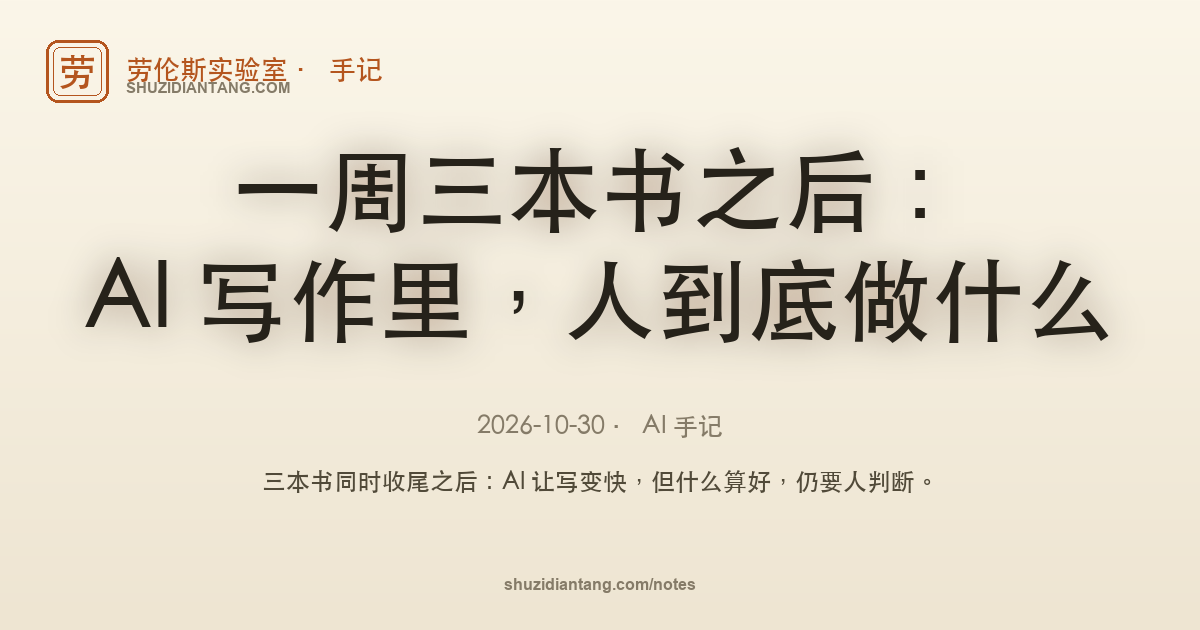
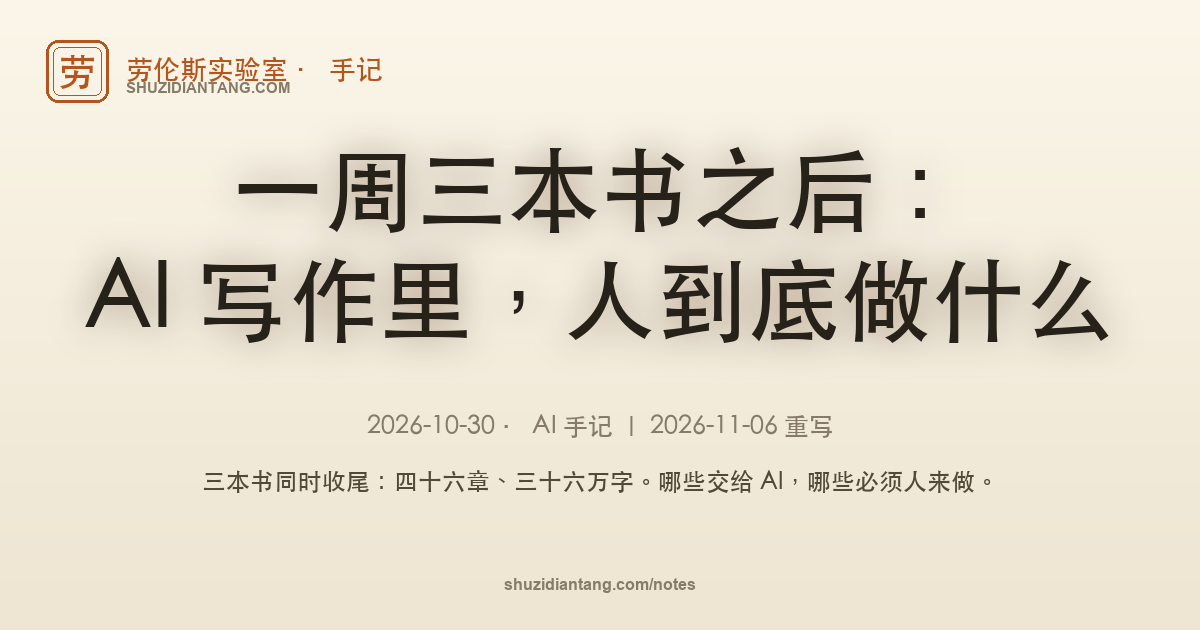
重写《一周三本书之后》：字数与章数口径、压缩三分之一、补 AI 分工
- 开头去掉页数，改为三本书的章数与字数（合计 46 章、36 万字）
- 正文 1,909 → 1,222 汉字，压缩约 36%，删三连列举与对称排比
- 新增按 AI 能力分工：Kimi 铺底稿、Codex/Astra 配图、DeepSeek 收格式与工程
- 新增材料按方向整合、小处放过大处不放过两条分寸
- 修正 meta 描述（此前误用掼蛋手记文案），同步 OG 分享图与列表摘要

Changed region(s): [[0.1542, 0.7238, 0.8325, 0.7841], [0.3083, 0.6333, 0.7092, 0.6937]]

diff --git a/notes/2026-10-30-ai-writing-ebook-v3.html b/notes/2026-10-30-ai-writing-ebook-v3.html
@@ -4,10 +4,10 @@
 <meta charset="UTF-8">
 <meta name="viewport" content="width=device-width, initial-scale=1.0">
 <title>一周三本书之后：AI 写作里，人到底做什么 · 劳伦斯实验室</title>
-<meta name="description" content="70 台匿名设备、471 局开局、420 局完成之后的产品经理手记：AI 不是阿拉丁神灯，复盘能力、AI 棋力上限与 vibecoding 里人的位置。">
+<meta name="description" content="三本书同时收尾：四十六章、三十六万字。哪些交给 AI，哪些必须人来做。">
 <link rel="canonical" href="https://shuzidiantang.com/notes/2026-10-30-ai-writing-ebook-v3.html">
 <meta property="og:title" content="一周三本书之后：AI 写作里，人到底做什么">
-<meta property="og:description" content="70 台匿名设备、471 局开局、420 局完成之后的产品经理手记：AI 不是阿拉丁神灯，复盘能力、AI 棋力上限与 vibecoding 里人的位置。">
+<meta property="og:description" content="三本书同时收尾：四十六章、三十六万字。哪些交给 AI，哪些必须人来做。">
 <meta property="og:type" content="article">
 <meta property="og:url" content="https://shuzidiantang.com/notes/2026-10-30-ai-writing-ebook-v3.html">
 <meta property="og:image" content="https://shuzidiantang.com/notes/og/2026-10-30-ai-writing-ebook-v3.png">
@@ -102,41 +102,26 @@
 <main>
   <article>
     <h1>一周三本书之后：AI 写作里，人到底做什么</h1>
-    <p class="meta"><time datetime="2026-10-30">2026-10-30</time> · 约 1,909 字 · 分类：AI 手记</p>
+    <p class="meta"><time datetime="2026-10-30">2026-10-30</time> · 约 1,222 字 · 分类：AI 手记 ｜ 2026-11-06 重写</p>
     <div class="article-copy">
-<p>十月最后一周，三本书几乎同时推到终稿：奉系—东北军 273 页，日本与俄国、苏联 204 页，俄罗斯远东 152 页。加起来 629 页。</p>
-<p>回头看，AI 并没有让写书这件事变轻松。它让“写”变快了，但“写什么、写成什么样、什么算写完”，仍然要人先想清楚。</p>
-<p>以前写一本书，最花时间的是查材料、搭结构、改句子。现在前两件快了很多，省下来的时间几乎都花在判断上：这个材料要不要，这一章删不删，这句话站不站得住。容易的是起草，难的是负责。</p>
+<p>十月最后一周，三本书几乎同时推到终稿：奉系—东北军 18 章、23.5 万字；日本与俄国、苏联那本 18 章、6.7 万字；俄罗斯远东 10 章、6.1 万字。合起来 46 章、36 万字。</p>
+<p>三本书都不是一键生成的。AI 让“写”变快了，省下的时间几乎都花在判断上：这个材料要不要，这句话站不站得住。这一周最大的体会是：得按 AI 各自的长处分活，别指望一个模型包打天下。</p>
 <h2>一、先立规矩</h2>
-<p>三本书同时推进，最怕每一章长成不同的腔。所以开写前，我先定了三件事。</p>
-<p>读者是谁，什么形态。奉系那本从一开始就定成“可读通史”，不往学术专著上靠。这个决定一落，取舍就清楚了：不追求专著的引注密度，但不许堆材料；允许写作者发问，但文责自负。</p>
-<p>一句话命题是什么。奉系的命题是“两次未完成转型”。审读时发现，这句话全书只出现六次，结论部分一次没提——命题没有闭环，三十章就容易写成三十篇专题。命题得贯穿全书，不能停在标题上；它要能一句话复述，也能一句话反驳；每一章都得回答“我为它添了哪块证据”。</p>
-<p>体例怎么统一。纪年、标题、引注、术语、图表，各按什么来，先写成几条硬规矩。体例看着琐碎，实际是多个人、多个模型合稿的接口。</p>
-<p>这三件事，AI 都不能替你决定。它可以给你十个方案，但选哪个、为什么选，得人来签字。后来发现，定规矩的那半天，比后面改一个月都值。</p>
-<p>规矩立好，AI 才动手。没有这几条，统稿时每一章都要重新谈一遍口径，改到最后只剩疲惫。顺序反了，几个模型各按各的默认动作写，合稿时一定打架。读者、命题、体例，后来都成了我判断稿子的尺子。</p>
-<h2>二、AI 能写什么</h2>
-<p>不要指望 AI 一次写整本。三本书都是先做素材长编，再定编章骨架，再给每章一张写作卡，最后才落段落。写作卡不是形式，它逼着人先回答“这一章到底干什么”；写不出卡，往往说明还没想清楚，不如先别让 AI 动笔。</p>
-<p>奉系三十章、三十四万字，是八个 AI 分头写、一个人统稿，不是一键生成。协作也不是把活丢给八个模型就完了；中间要有人拆活、看进度、把跑偏的章节拉回来。教训也很直接：台账只写了“每章一万四到两万字”，没有硬约束，结果郭松龄三章只有标准的一半，没人返工。配额不写死，“完成”就是一句空话。AI 像一组能干但需要监工的助手：活干得快，方向得有人看。</p>
-<p>AI 的初稿常见三种默认动作：先找材料，先搭结构，先找问题。先找材料的容易资料串讲，先搭结构的容易论证空转，先找问题的容易写给自己看。知道它偏哪一种，就知道该补哪一刀。</p>
-<p>拿到一篇 AI 中文稿，我常问五件事：有没有一句能被复述的判断？有没有一个能被核查的事实？有没有一个真实的反方？删掉形容词之后还剩什么？结尾是不是在总结？最后一条最灵——如果结尾还在总结，多半说明前面没说完。</p>
-<p>这五个问题，没有一条能靠文采混过去。AI 很擅长把话说得顺，但顺不等于对；写着写着会发现，它最会写的是“正确但没用”的段落。把形容词删掉，剩下的才是货。</p>
-<h2>三、改稿才是人的活</h2>
-<p>去 AI 腔，不能只靠删几个词。</p>
-<p>三本书里最常见的是对称否定：不能 A，也不能 B；不是 A，而是 B；不必……也不必……。这种句子听起来周全，实际常常是在替自己留后路。还有一种更隐蔽：禁用词清零了，句法没变，“不能把”“不能只”“无法解释”又顶上来。</p>
-<p>我的做法是先数，再改，最后判断。数，是把对称否定、套话、句长、重复段扫一遍；改，是每一处落回句子；判断只能人做：这一章有没有判断？证据在论证链上有没有位置？反方是不是稻草人？改完要回读，别为了避开禁用词改出病句。</p>
-<p>也有改过头的时候。另一本稿子为了把禁用词清零，把限定和反证一起删了；数字干净了，判断也没了。后来我给自己定了一条：删掉这句话，信息有没有减少？改稿最费时间的不是找错字，是判断哪句话值得留。</p>
-<p>事实核查也一样：每个数字都要有口径，谁统计、什么时点、什么范围；每条结论只能标“确认错误、存疑待核、无法核实”三种状态；图、文、表必须同版本。先定文字，再配图。</p>
-<h2>四、书是工程，也是判断</h2>
-<p>出书第一步先定形态，排版还在后面。研究分享版、自出版电子书、正式出版，三种做法完全不同。三本书都没走正式出版，不是做不到，是先定了给谁看。</p>
-<p>“书感”来自封面、目录、图注，不是字体。目录要能点、页码要对；图注要写清来源。这些事读者未必说得出哪里好，但一旦出错，第一眼就露怯。封面是第一眼，目录是路径，图注是信任。</p>
-<p>形态定错，后面的工艺也白费：给同行看的研究分享版，不需要书号；要公开卖的书，不能省掉授权和审校。书最终是给人翻的，文件检查器只是工具。工程上最值钱的经验只有一句：内容只留一个真源，PDF、EPUB、HTML 从同一份内容生成。</p>
-<p>质检分三层：能打开，内容对，手机上能读。还有一条，不信自评：声称的检查要复跑，声称的链接数要复算。</p>
-<p>这一周吓人的错误，没有一个是文笔问题：配图按旧正文排版，新文字没进去；单位换算错，整张表的数字变成 0；封面卡片图 404；压缩包打开是乱码。它们都不在正文里，读者却会在翻开书的第一分钟撞上。共同点是肉眼看不出来，只能靠脚本和抽检兜底。</p>
-<h2>五、最后</h2>
-<p>AI 放大的是产量，不是判断力。</p>
-<p>好稿子的敌人，说到底是对称、空泛、不落地、不负责，而不只是“AI 味”三个字。出书是工程，AI 能完成大部分生成和修订，剩下页码、断链、单位、授权，决定这本书能不能真的发出去。</p>
-<p>三本书能同时收尾，没有哪一步靠灵光；靠的是这些重复、枯燥、可检查的动作。</p>
-<p>做完这三本，我最大的变化，是不再问 AI 能不能写，而是先问自己：这本书到底要解决什么。这个问题想不清楚，AI 写得再快，也只是把错误放大。写书这件事，最后拼的还是人愿不愿意为判断负责；人得为最后一眼负责。</p>
+<p>三本书同时推进，最怕每一章长成不同的腔。开写前先把两件事定死：给谁看，体例怎么统一。体例听着琐碎，其实是几个模型合稿的接口——纪年、引注这些怎么标，都先写成硬规矩，交来的稿子才能拼在一张桌子上。</p>
+<p>奉系那本定为“可读通史”：材料够用即可，引注只留要紧的。命题是“两次未完成转型”，审读时却发现全书只提了六次，结论部分一次没提。命题不贯穿，十八章就成了十八篇专题。章节也是先定骨架再落段落：每章回答什么问题、反方是谁；写不出这几条，往往说明还没想清楚，不如先别让 AI 动笔。</p>
+<p>这些事 AI 替不了。它能给你十个方案，选哪个、为什么选，得人签字。规矩没立就让模型动笔，合稿时一定打架。定规矩那半天，抵得上后面改一个月。</p>
+<h2>二、分工与取舍</h2>
+<p>分工是按各家的脾气来的。奉系三十五万字的底稿由 Kimi 铺，Codex 补专题材料，八路子代理分头重写十八章，统稿后二十三万字。配图试了几个模型，还是 Astra 最稳——Codex 跑的就是它：日本与俄国那本的二十六页 A3 图册、十幅肖像和封面，还有奉系的人物谱，都是它出的。格式和工程化交给 DeepSeek，审读、取舍我自己过。</p>
+<p>材料不该一上来就整包丢给 AI。先按方向归堆——奉系按财政、军制两堆——编目、标可信度，让它先出整合稿；人看这条线站不站得住，真正逐条复核的只是高风险的那几条。有些地方我改到第三遍就停手：人名异体字、图注年份这类事，差不多就行；方向标反、数字口径错，差一点也得改。</p>
+<h2>三、改稿是人的活</h2>
+<p>去 AI 腔，不是删几个词。三本书里最常见的毛病是对称否定：“不能 A，也不能 B”“不是 A，而是 B”，听着周全，其实常是在给自己留后路。更隐蔽的是换词不换句式：禁用词清零了，“不能把”“不能只”又顶上来。</p>
+<p>我的做法是先数、再改、最后判断。数交给脚本，改要一句一句落到文字上，改完还得回读；判断只能人做：这一章有没有能复述的判断，证据在论证链上有没有位置，反方是不是稻草人。还有一个笨办法：结尾还在总结，多半说明前面没说完。也要防改过头——有一次为了清零禁用词，把限定和反证一起删了，数字干净了，判断也没了。改稿最费时间的是判断哪句话值得留，找错字倒在其次。</p>
+<p>事实核查同理：数字口径写作时就带着，谁统计、什么时点、什么范围；复核时分轻重，拿不准的标“存疑待核”，不编造依据。</p>
+<h2>四、书是工程</h2>
+<p>出书第一步先定形态，排版在后。三本书都没走正式出版，是先定了给谁看。形态定错，后面的工艺也白费：给同行看的研究分享版，和要公开卖的电子书，做法差得很远。书感靠封面、目录、图注撑着：目录能点、页码对，图注有来源。书最终是给人翻的，文件检查器只是工具。工程上最值钱的经验只有一句：内容只留一个真源，PDF、EPUB、HTML 从同一份内容生成。</p>
+<p>这一周吓人的错误，没有一个是文笔问题：配图按旧正文排了版，新文字没进去；整张表的数字因为单位换算错了，全变成 0。它们都不在正文里，读者却会在翻开书的第一分钟撞上。所以质检不信自评——声称的检查要复跑，链接数要复算。</p>
+<p>三本书能同时收尾，靠的是这些重复而枯燥的动作；动作保底，判断定稿。</p>
+<p>做完这三本，我不再问 AI 能不能写，先问自己：这本书到底要解决什么。这个问题想不清楚，AI 写得再快，也只是把错误放大——最后一眼，总得有人负责。</p>
     </div>
 
     <a class="note-back" href="/notes/">← 返回手记列表</a>

diff --git a/src/data/site.ts b/src/data/site.ts
@@ -403,7 +403,7 @@ export const notes = [
     date: '2026-10-30',
     category: 'AI 手记',
     href: '/notes/2026-10-30-ai-writing-ebook-v3.html',
-    summary: '三本书同时收尾之后的一点感想：AI 让写变快，但写什么、什么算好、什么算负责，仍要人先想清楚。',
+    summary: '三本书同时收尾：奉系—东北军、日本与俄国苏联、俄罗斯远东，四十六章、三十六万字。按能力分工、逐句改稿、把书当工程做。',
   },
   {
     title: '转身就忘的事，值得当回事——三分钟记忆自测小工具的由来',
